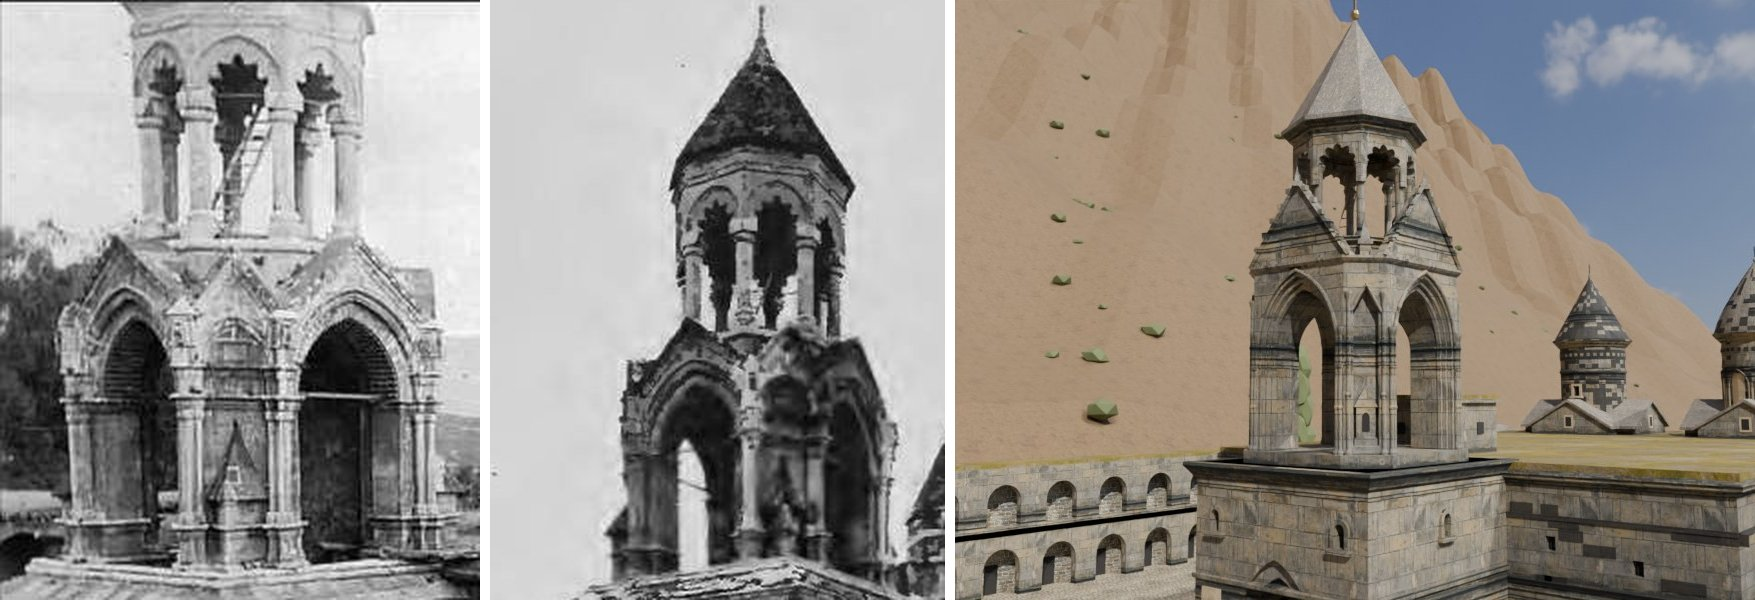
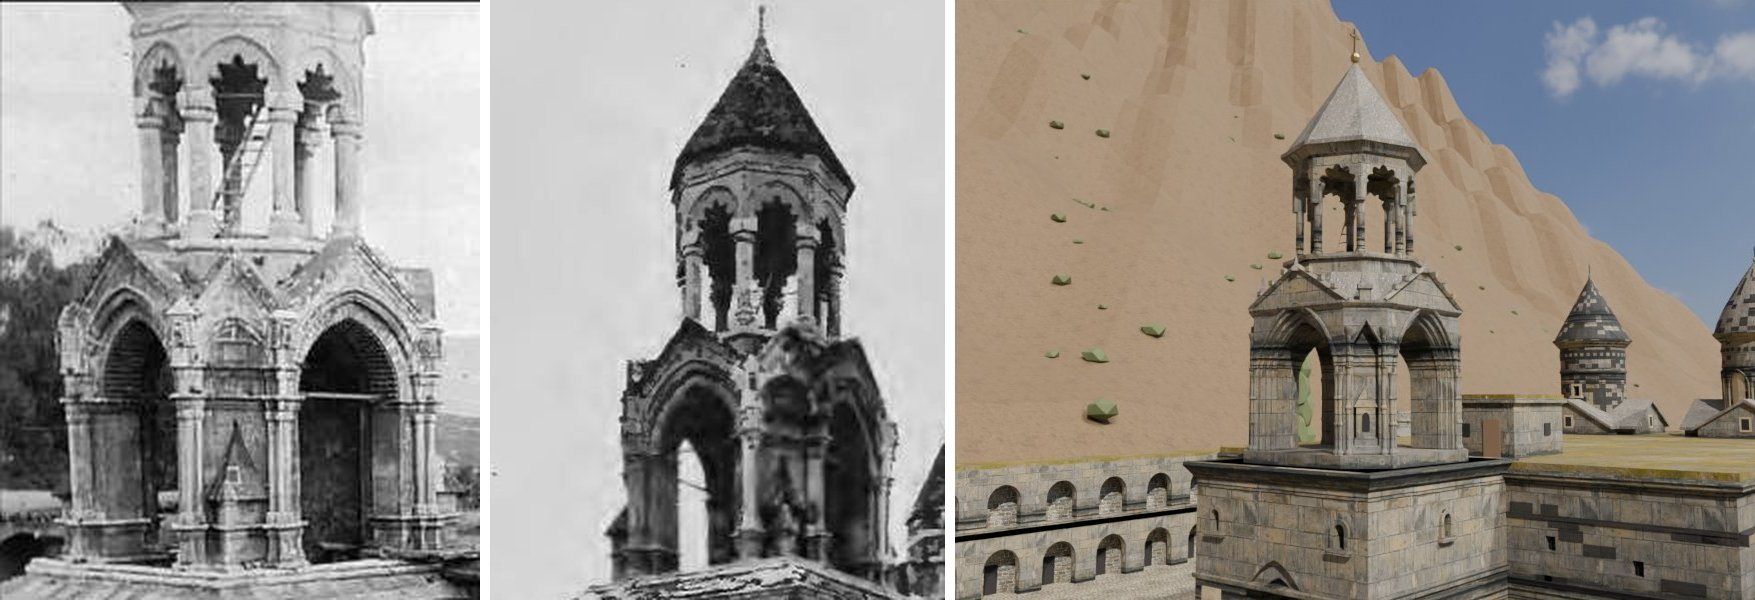
Blender Glakavank: the belfry's proportions measured again
The gables low, their tops level with the foot of the second
stage; the first stage lower, a roof behind the gables; the
second stage and its roof a little lower.

Claude-Session: https://claude.ai/code/session_01Kh1C7TA5zgtKBSj2rCFaHD

diff --git a/blender/glakavank.py b/blender/glakavank.py
@@ -1699,7 +1699,7 @@ def belfry(gx):
     pinnacles over the corners. Second: eight columns
     under cusped (five-lobed) arches, a high plain
     frieze, a roof of plain slabs."""
-    by, s, sh = 10.9, 7.6, 7.6
+    by, s, sh = 10.9, 7.6, 5.8
     c8 = 1.25
     oct8 = octagon(gx, 0, s, c8)
     L.mould(
@@ -1713,14 +1713,14 @@ def belfry(gx):
         "belfry", oct8, [(0.0, 0.0), (0.0, sh)], "porch", by
     )
     holes = Holes("belfry")
-    aw, ah = 3.5, 6.75
+    aw, ah = 3.5, 5.4
     for rz in (0, PI / 2):
         holes.add(
             L.arch(aw, ah, True),
             s + 2,
             L.face(gx, 0, by, rz),
         )
-    orders = ((4.1, 7.25, 0.22), (3.8, 7.0, 0.4))
+    orders = ((4.1, 5.85, 0.22), (3.8, 5.6, 0.4))
     for rz in (0, PI / 2, PI, -PI / 2):
         n = n_of(rz)
         c = Vector((gx, 0, 0)) + n * (s / 2)
@@ -1742,9 +1742,9 @@ def belfry(gx):
             [
                 (-0.5, 0),
                 (0.5, 0),
-                (0.5, 5.3),
-                (0, 6.2),
-                (-0.5, 5.3),
+                (0.5, 4.0),
+                (0, 4.8),
+                (-0.5, 4.0),
             ],
             0.9,
             L.face(cc.x, cc.y, by + 0.35, rz),
@@ -1757,12 +1757,12 @@ def belfry(gx):
         t = Vector((n.y, -n.x, 0))
         for sg in (-1, 1):
             q = cc + t * sg * 0.7 + n * 0.06
-            shaft("bel-shaft", q.x, q.y, by, 6.4, 0.09)
+            shaft("bel-shaft", q.x, q.y, by, 5.0, 0.09)
         # its gable mould, a roll round the niche
         L.tube(
             "roll",
             L.on_face(
-                [(-0.62, 5.25), (0, 6.35), (0.62, 5.25)],
+                [(-0.62, 3.95), (0, 4.95), (0.62, 3.95)],
                 L.face(cc.x, cc.y, by + 0.35, rz),
                 0.05,
             ),
@@ -1793,19 +1793,19 @@ def belfry(gx):
             ],
         )
         # the hood over the arch
-        arch_rolls(c, rz, by, [(4.5, 7.5, 0.06)])
+        arch_rolls(c, rz, by, [(4.5, 6.15, 0.06)])
         # the clustered shafts beside the arch
         for sg in (-1, 1):
             for off in (2.28, 2.46):
                 p = c + t * sg * off + n * 0.1
-                shaft("bel-shaft", p.x, p.y, by, 5.0, 0.08)
+                shaft("bel-shaft", p.x, p.y, by, 3.2, 0.08)
         # the gable, its crockets and its finial
         g = c - n * 0.25
         top = by + sh + 0.25
         gw = s / 2 - c8 + 0.25
         L.prism(
             "bel-gable",
-            [(-gw, 0), (gw, 0), (0, 3.4)],
+            [(-gw, 0), (gw, 0), (0, 1.6)],
             0.5,
             "porch",
             L.face(g.x, g.y, top, rz),
@@ -1814,10 +1814,10 @@ def belfry(gx):
         for sg in (-1, 1):
             a = c + t * sg * gw + n * 0.05
             a = Vector((a.x, a.y, top))
-            b = Vector((apex.x, apex.y, top + 3.45))
+            b = Vector((apex.x, apex.y, top + 1.65))
             rod("bel-rake", a, b, 0.11, "porch")
-            for k in range(1, 6):
-                q = a + (b - a) * (k / 6.0)
+            for k in range(1, 4):
+                q = a + (b - a) * (k / 4.0)
                 L.box(
                     "crocket",
                     0.22,
@@ -1833,9 +1833,9 @@ def belfry(gx):
             "bel-fin",
             apex.x,
             apex.y,
-            top + 3.4,
-            0.16,
-            0.75,
+            top + 1.6,
+            0.14,
+            0.6,
             4,
             False,
             False,
@@ -1878,8 +1878,20 @@ def belfry(gx):
             False,
             False,
         )
+    # the roof behind the gables, up to the second
+    # stage
+    L.lathe(
+        "bel-roof1",
+        [(4.15, 0), (3.3, 1.35)],
+        8,
+        "slate",
+        gx,
+        0,
+        by + sh + 0.25,
+        PI / 8,
+    )
     # the second stage
-    uy = by + sh + 0.5
+    uy = by + sh + 1.6
     ur = 2.5
     L.lathe(
         "ring-base",
@@ -1896,7 +1908,7 @@ def belfry(gx):
         uy,
     )
     top = uy + 0.85
-    ch = 3.3
+    ch = 3.2
     for i in range(8):
         a = i * PI / 4
         column(
@@ -1908,7 +1920,7 @@ def belfry(gx):
             0.18,
             "porch",
         )
-    band = 2.3
+    band = 2.0
     z0 = top + ch - 0.9
     ring = L.lathe(
         "ring-arch",
@@ -1932,7 +1944,7 @@ def belfry(gx):
     for i in range(8):
         f = i * PI / 4 + PI / 8
         holes.add(
-            L.foil(1.7, 1.75),
+            L.foil(1.7, 1.65),
             2.0,
             L.face(
                 gx + 2.6 * math.sin(f),
@@ -1985,7 +1997,7 @@ def belfry(gx):
         0,
         ry + 0.65,
         3.25,
-        5.6,
+        4.6,
         8,
         True,
         False,

diff --git a/blender/README.md b/blender/README.md
@@ -108,7 +108,10 @@ Fixed, each with a picture in `renders/fixes/`:
    in round its arches, ringed shafts, steep gables
    with crockets and a finial (no rosettes); in each
    corner a tall gabled niche carved in, a small
-   shrine at its foot; small pinnacles; no bell
+   shrine at its foot; small pinnacles; low gables
+   whose tops are level with the foot of the second
+   stage (measured again from the photographs: the
+   first stage about 7.7 m to there); no bell
    (none is seen), a ladder.
 2. The drums, each its own: Stepanos in a patchwork
    of light and dark stone with a ring, a band of
